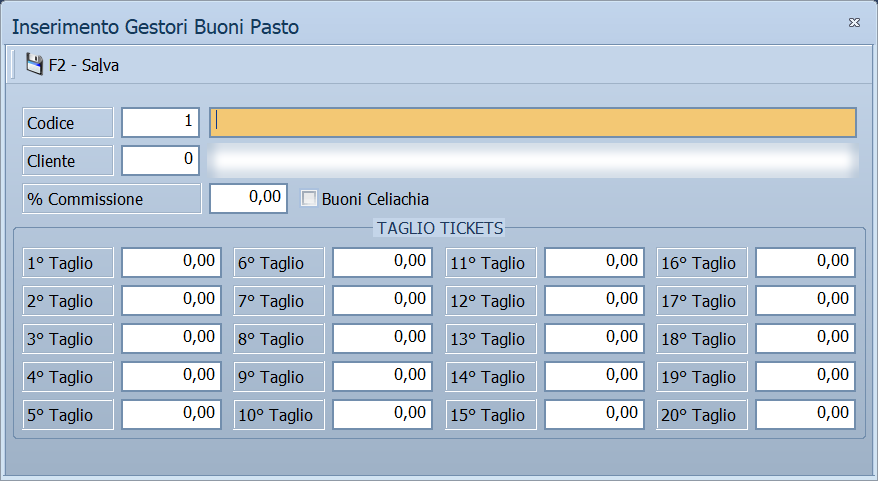
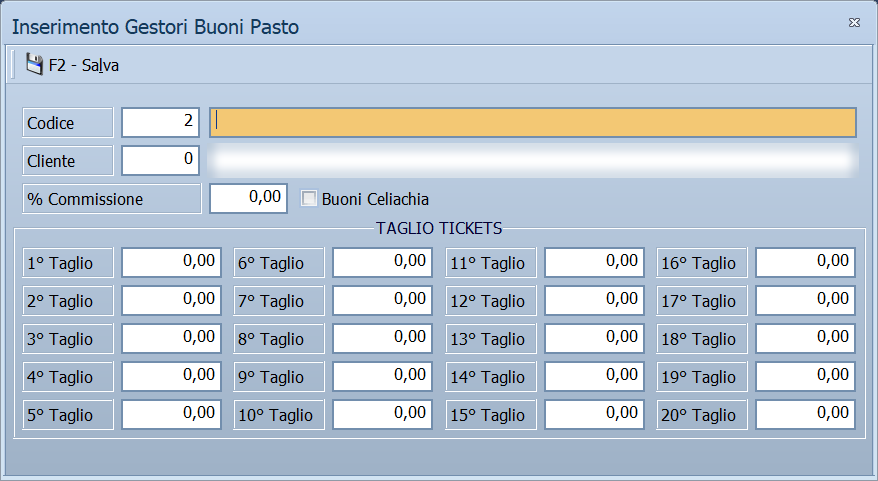
Gestori buoni pasto: titolo del riquadro trasparente; schermate dei riquadri rifatte

Changed region(s): [[0.0, 0.4366, 0.9841, 0.499]]

diff --git a/docs/novita/index.md b/docs/novita/index.md
@@ -143,6 +143,12 @@ elencate in un avviso, e uno scontrino già passato non si ripassa.
   tornava con quello della cassa. Ora il mezzo centesimo segue sempre la
   stessa regola, per eccesso (4,98), nella cassa come nei documenti.
 
+**Clienti**
+
+- [Gestori buoni pasto](../moduli/anagrafiche/gestori-buoni-pasto.md): il
+  titolo **TAGLIO TICKETS** usciva su un rettangolo di colore diverso dallo
+  sfondo della finestra. Ora è trasparente come gli altri titoli.
+
 **Listini e articoli**
 
 - [Analisi fornitore](../moduli/listini-fornitori/analisi-fornitore.md): il
